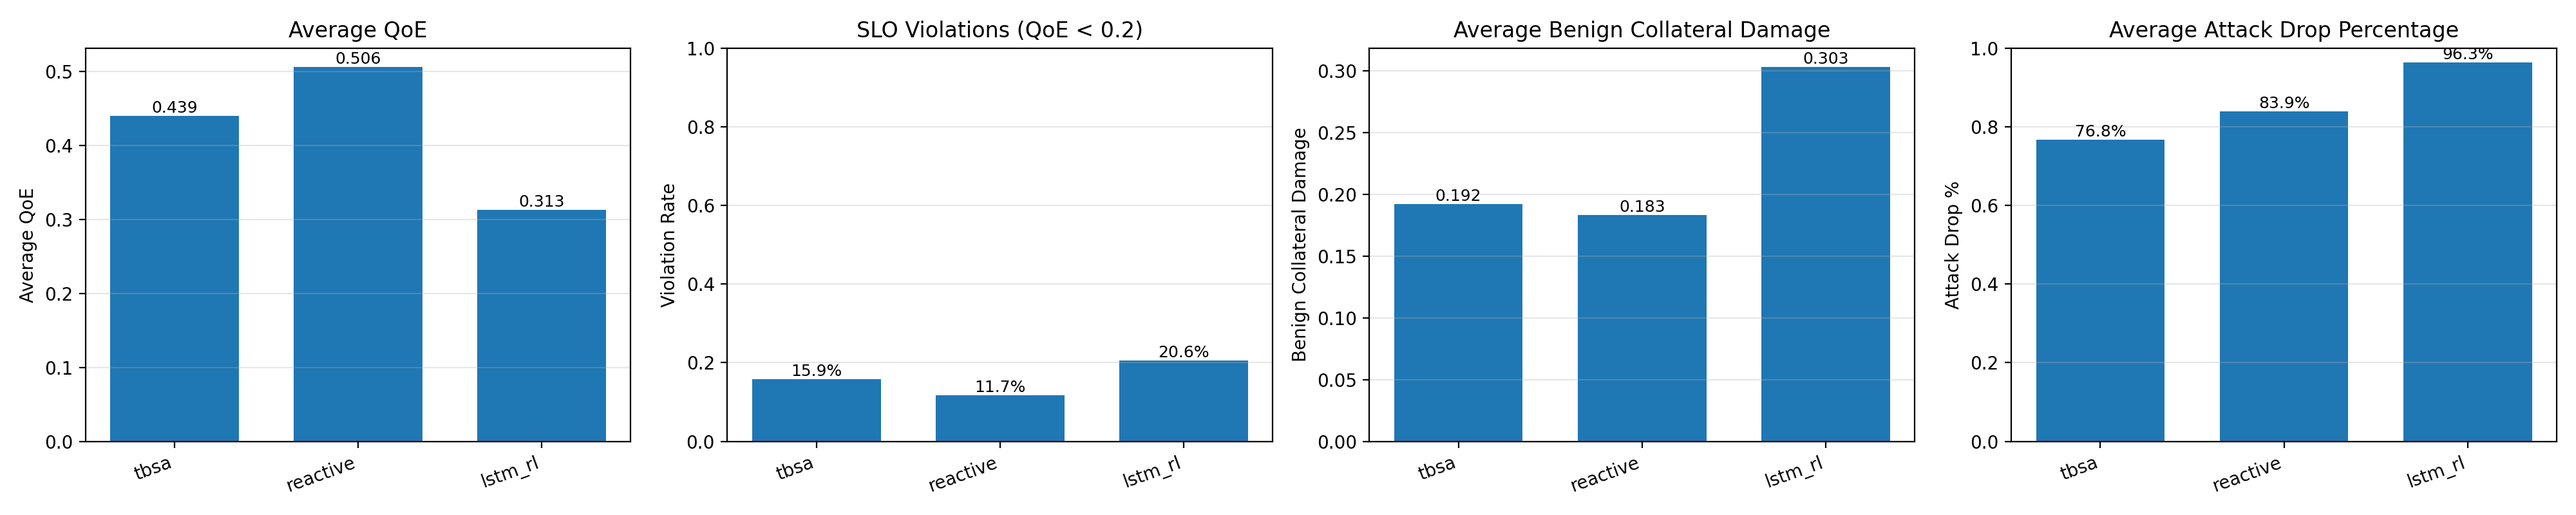
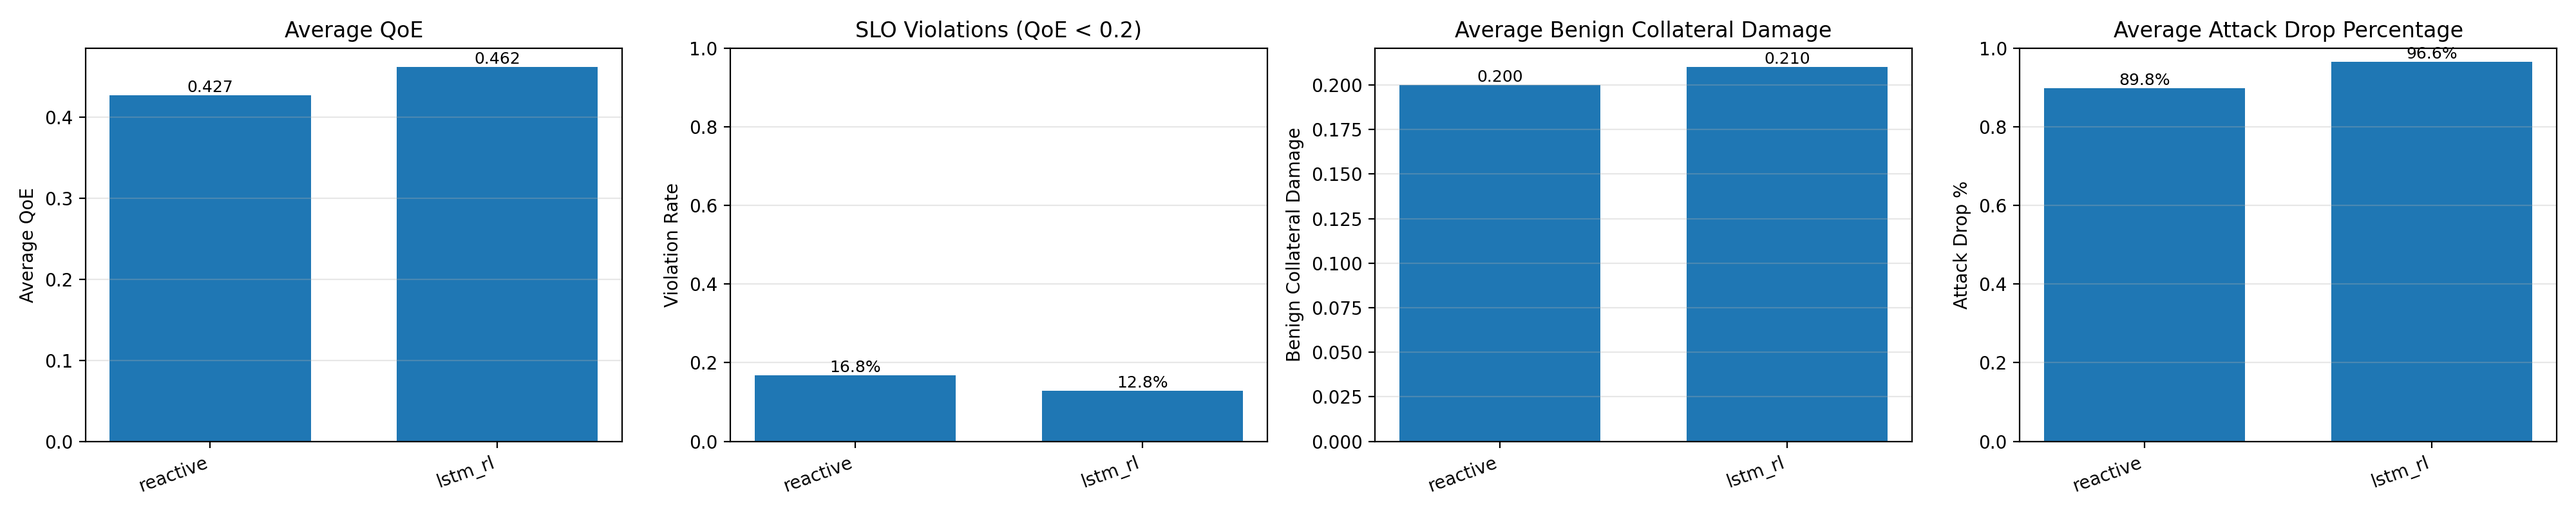
scaling overhead convergence (but so can overlap and incorrect)

diff --git a/simulation/eval_baselines.py b/simulation/eval_baselines.py
@@ -15,7 +15,7 @@ from __future__ import annotations
 import argparse
 import math
 from pathlib import Path
-from typing import Dict, List
+from typing import Dict, List, Optional, Tuple
 
 import numpy as np
 import pandas as pd
@@ -30,7 +30,7 @@ SCALING_K      = 2.0
 SCALING_QUANTA = [0.5, 1.0, 1.5, 2.0]
 
 DEFAULT_METHODS = ["random", "constant_0.5", "constant_1.5", "tbsa", "reactive"]
-DEFAULT_METHODS = ["tbsa", "reactive", "lstm_rl"]
+DEFAULT_METHODS = ["reactive", "lstm_rl"]
 
 
 # ---------------------------------------------------------------------------
@@ -114,17 +114,23 @@ def run_episode(
     reward_beta: float,
     reward_gamma: float,
     reward_q_th: float,
-) -> Dict[str, np.ndarray]:
+    initial_ids_cpu: Optional[np.ndarray] = None,
+) -> Tuple[Dict[str, np.ndarray], np.ndarray]:
     """
     Run one episode with *policy* and return a dict of per-decision arrays
-    (same keys as old_policy.run_episode so the same plotting code works).
+    and the final ids_cpu state for carry-over.
     """
     env.reset(seed)
     policy.reset()
 
     n_edges     = len(env.edge_areas)
     ids_cpu_max = np.array([e.budget.cpu - 0.5 for e in env.edge_areas], dtype=np.float32)
-    ids_cpu     = np.array([e.ids_cpu for e in env.edge_areas], dtype=np.float32)
+    
+    if initial_ids_cpu is not None:
+        ids_cpu = initial_ids_cpu.copy()
+    else:
+        ids_cpu = np.array([e.ids_cpu for e in env.edge_areas], dtype=np.float32)
+    
     ids_cpu     = np.clip(ids_cpu, ids_cpu_min, ids_cpu_max)
 
     scaling_time_steps: List[int] = list(
@@ -132,7 +138,7 @@ def run_episode(
     )
     scaling_pending  = 0.0
     overhead_rate    = 0.0
-    ids_cpu_settled  = ids_cpu.copy()   # last completed IDS CPU (unit-step model)
+    ids_cpu_settled  = ids_cpu.copy()   # matches TorchRLEnvWrapper._reset logic
     rng = np.random.default_rng(seed)
 
     decisions = math.ceil(int(cfg["run"]["t_max"]) / decision_interval)
@@ -146,9 +152,11 @@ def run_episode(
     attack_drop_rate_ts   = []
     ema_mom_ts            = []
     cpu_to_ids_ratio_ts   = []
+    qoe_vio_rate_ts       = []
     reward_lambda_res_ts  = []
     reward_bcd_ts         = []
     reward_qoe_penalty_ts = []
+    reward_ts             = []
 
     for _ in range(decisions):
         if env.t >= env.t_max:
@@ -223,14 +231,18 @@ def run_episode(
         def _col_mean(col):
             return float(df[col].mean()) if col in df.columns else 0.0
 
-        qoe_mean = (
-            float(np.mean(df["qoe_mean"].values)) if "qoe_mean" in df.columns else 0.0
-        )
+        qoe_vals = df["qoe_mean"].values.astype(np.float32) if "qoe_mean" in df.columns else np.array([])
+        qoe_mean = float(np.mean(qoe_vals)) if qoe_vals.size > 0 else 0.0
+        
+        # PER-STEP VIOLATION RATE (Matches TorchRLEnvWrapper)
+        v_rate = float(np.mean(qoe_vals < reward_q_th)) if qoe_vals.size > 0 else 0.0
+        
         bcd_mean = (
             float(np.mean(df["benign_col_dmg"].values)) if "benign_col_dmg" in df.columns else 0.0
         )
 
         qoe_ts.append(qoe_mean)
+        qoe_vio_rate_ts.append(v_rate)
         benign_col_dmg_ts.append(bcd_mean)
         cpu_util_ts.append(cpu_util)
         local_num_req_ts.append(_col_mean("local_num_req"))
@@ -253,16 +265,27 @@ def run_episode(
             sf       = np.maximum(0.0, reward_q_th - qoes) / max(reward_q_th, 1e-6)
             bcd_vals = df["benign_col_dmg"].values.astype(np.float32) if "benign_col_dmg" in df.columns else np.zeros(len(atk_in))
 
-            reward_lambda_res_ts.append(float(reward_beta  * np.mean(lres)))
-            reward_bcd_ts.append(       float(reward_gamma * np.mean(bcd_vals)))
-            reward_qoe_penalty_ts.append(float(reward_alpha * np.mean(sf)))
+            # Only average lres over ticks where attacks are actually present.
+            # Including zero-attack ticks (lres=0) inflates the apparent drop
+            # rate by counting quiet periods as "100% defended".
+            active = atk_in > 1e-6
+            r_lres = float(np.mean(lres[active])) if np.any(active) else 0.0
+            r_bcd  = float(np.mean(bcd_vals))
+            r_sf   = float(np.mean(sf))
+            reward_lambda_res_ts.append(r_lres)
+            reward_bcd_ts.append(r_bcd)
+            reward_qoe_penalty_ts.append(r_sf)
+            # Weighted reward scalar — same formula as TorchRLEnvWrapper._build_reward
+            reward_ts.append(-(reward_alpha * r_sf + reward_beta * r_lres + reward_gamma * r_bcd))
         else:
             reward_lambda_res_ts.append(0.0)
             reward_bcd_ts.append(0.0)
             reward_qoe_penalty_ts.append(0.0)
+            reward_ts.append(0.0)
 
-    return {
+    res = {
         "qoe":                  np.asarray(qoe_ts,                dtype=np.float32),
+        "qoe_vio_rate":         np.asarray(qoe_vio_rate_ts,       dtype=np.float32),
         "benign_col_dmg":       np.asarray(benign_col_dmg_ts,     dtype=np.float32),
         "cpu_util":             np.asarray(cpu_util_ts,           dtype=np.float32),
         "local_num_req":        np.asarray(local_num_req_ts,      dtype=np.float32),
@@ -274,7 +297,9 @@ def run_episode(
         "reward_lambda_res":    np.asarray(reward_lambda_res_ts,  dtype=np.float32),
         "reward_benign_col_dmg": np.asarray(reward_bcd_ts,        dtype=np.float32),
         "reward_qoe_penalty":   np.asarray(reward_qoe_penalty_ts, dtype=np.float32),
+        "reward":               np.asarray(reward_ts,             dtype=np.float32),
     }
+    return res, ids_cpu.copy()
 
 
 # ---------------------------------------------------------------------------
@@ -294,7 +319,8 @@ def main():
                     help="Methods to evaluate. Defaults: random constant_0.5 constant_4.0 reactive")
     ap.add_argument("--tbsa_table",        default="tbsa_table.npz",
                     help="TBSA lookup-table path (needed when 'tbsa' is in --methods)")
-    ap.add_argument("--ckpt",              default="checkpoints/tdsc_so/ckpt_iter_000300.pt",
+    ap.add_argument("--ckpt",              default="checkpoints/tdsc_so_rew_32/ckpt_iter_000300.pt",
+    # ap.add_argument("--ckpt",              default="checkpoints/tdsc/ckpt_iter_000500.pt",
     # ap.add_argument("--ckpt",              default="checkpoints/tdsc_so/ckpt_best.pt",
                     help="Checkpoint path (needed when 'lstm_rl' is in --methods)")
     ap.add_argument("--device",            default="cpu")
@@ -303,7 +329,10 @@ def main():
     with open(args.cfg) as f:
         cfg = yaml.safe_load(f)
 
-    base_seed         = int(cfg["run"]["seed"])
+    # Sync global random state with training for AttackTypeLibrary (identical to train_lstm.py)
+    base_seed = int(cfg["run"]["seed"])
+    np.random.seed(base_seed)
+
     decision_interval = args.decision_interval or int(cfg["globals"]["decision_interval"])
 
     outdir = Path(args.outdir)
@@ -347,11 +376,13 @@ def main():
 
     # Accumulate per-decision results across episodes
     results: Dict[str, Dict[str, np.ndarray]] = {m: {} for m in methods}
+    # Track carry-over state per method (matches training SyncDataCollector behavior)
+    last_ids_cpu: Dict[str, Optional[np.ndarray]] = {m: None for m in methods}
 
     for ep in tqdm(range(args.episodes), desc="episodes"):
-        ep_seed = base_seed + ep * 1000
+        ep_seed = 1000 + ep * 1000
         for mname in methods:
-            ep_result = run_episode(
+            ep_result, final_ids = run_episode(
                 env=env,
                 cfg=cfg,
                 policy=policies[mname],
@@ -364,7 +395,9 @@ def main():
                 reward_beta=reward_beta,
                 reward_gamma=reward_gamma,
                 reward_q_th=reward_q_th,
+                initial_ids_cpu=last_ids_cpu[mname],
             )
+            last_ids_cpu[mname] = final_ids
             for k, v in ep_result.items():
                 results[mname][k] = np.concatenate(
                     [results[mname].get(k, np.array([], dtype=np.float32)), v]
@@ -377,6 +410,22 @@ def main():
     plot_qoe_vio_bars( results, summary_path, qoe_slo_min=reward_q_th, beta=3)
 
     print(f"Plots saved to {outdir}/")
+
+    # Summary table — comparable to wandb training metrics
+    header = f"{'Method':<20} {'qoe_vio_rate':>12} {'reward/mean':>12} {'qoe_penalty':>12} {'atk_drop_pct':>12} {'lambda_res':>12}"
+    print("\n" + header)
+    print("-" * len(header))
+    for mname in methods:
+        r = results[mname]
+        lres = float(np.mean(r['reward_lambda_res']))
+        print(
+            f"{mname:<20} "
+            f"{float(np.mean(r['qoe_vio_rate'])):>12.1%} "
+            f"{float(np.mean(r['reward'])):>12.4f} "
+            f"{float(np.mean(r['reward_qoe_penalty'])):>12.4f} "
+            f"{1.0 - lres:>12.1%} "   # attack drop % — matches summary.png bar
+            f"{lres:>12.4f}"           # raw pass-through fraction (during attacks)
+        )
 
 
 if __name__ == "__main__":

diff --git a/simulation/old_policy.py b/simulation/old_policy.py
@@ -350,6 +350,7 @@ def run_episode(
     overhead_rate: float = 0.0
 
     qoe_ts = []
+    qoe_vio_rate_ts = []
     benign_col_dmg_ts = []
     cpu_util_ts = []
     local_num_req_ts = []
@@ -443,7 +444,12 @@ def run_episode(
         block = env.history[-decision_interval * n_edges :]
         df = pd.DataFrame([m.__dict__ for m in block])
 
+        qoes_step = df["qoe_mean"].values.astype(np.float32)
+        v_rate = float(np.mean(qoes_step < 0.2)) # Hardcoded 0.2 for legacy script
+   
+
         qoe_ts.append(qoe)
+        qoe_vio_rate_ts.append(v_rate)
         benign_col_dmg_ts.append(benign_col_dmg)
         cpu_util_ts.append(cpu_util)
         local_num_req_ts.append(float(df["local_num_req"].mean()) if "local_num_req" in df.columns else 0.0)
@@ -464,16 +470,16 @@ def run_episode(
             _qoes = df["qoe_mean"].values.astype(np.float32)
             _shortfall = np.maximum(0.0, _q_th - _qoes) / max(_q_th, 1e-6)
             _bcd = df["benign_col_dmg"].values.astype(np.float32)
-            reward_lambda_res_ts.append(float(_beta * np.mean(_lres)))
-            reward_benign_col_dmg_ts.append(float(_gamma * np.mean(_bcd)))
-            reward_qoe_penalty_ts.append(float(_alpha * np.mean(_shortfall)))
+            reward_lambda_res_ts.append(float(np.mean(_lres)))
+            reward_benign_col_dmg_ts.append(float(np.mean(_bcd)))
+            reward_qoe_penalty_ts.append(float(np.mean(_shortfall)))
         else:
             reward_lambda_res_ts.append(0.0)
             reward_benign_col_dmg_ts.append(0.0)
             reward_qoe_penalty_ts.append(0.0)
-
     return {
         "qoe": np.asarray(qoe_ts, dtype=np.float32),
+        "qoe_vio_rate": np.asarray(qoe_vio_rate_ts, dtype=np.float32),
         "benign_col_dmg": np.asarray(benign_col_dmg_ts, dtype=np.float32),
         "cpu_util": np.asarray(cpu_util_ts, dtype=np.float32),
         "local_num_req": np.asarray(local_num_req_ts, dtype=np.float32),
@@ -496,14 +502,13 @@ def plot_ts_continuous(results: Dict[str, Dict[str, np.ndarray]], outpath: Path,
         ("benign_col_dmg", "Benign Collateral Damage"),
         ("local_num_req", "Local #Req"),
         ("attack_in_rate", "Attack in rate"),
-        ("attack_in_rate_std", "Attack in rate std"),
         ("attack_drop_rate", "Attack drop rate"),
         ("cpu_util", "CPU Utilization"),
         ("cpu_to_ids_ratio", "CPU→IDS Ratio"),
         ("ema_mom", "EMA Momentum"),
-        ("reward_lambda_res", "Reward: λ_res (attack residual)"),
-        ("reward_benign_col_dmg", "Reward: benign collateral dmg"),
-        ("reward_qoe_penalty", "Reward: QoE shortfall penalty"),
+        ("reward_lambda_res", "Raw Factor: λ_res (leakage)"),
+        ("reward_benign_col_dmg", "Raw Factor: Benign Collateral Dmg"),
+        ("reward_qoe_penalty", "Raw Factor: QoE Shortfall"),
     ]
 
     for ax, (k, ylabel) in zip(axes, panels):
@@ -560,7 +565,11 @@ def plot_qoe_vio_bars(results: Dict[str, Dict[str, np.ndarray]],
         if q.size == 0:
             continue
 
-        vr = float(np.mean((q < qoe_slo_min).astype(np.float32)))
+        qoe_vio_rate = series.get("qoe_vio_rate", None)
+        if qoe_vio_rate is not None and qoe_vio_rate.size > 0:
+            vr = float(np.mean(qoe_vio_rate))
+        else:
+            vr = float(np.mean((q < qoe_slo_min).astype(np.float32)))
         v = float(np.exp(-beta * vr))
 
         methods.append(method)
@@ -574,22 +583,16 @@ def plot_qoe_vio_bars(results: Dict[str, Dict[str, np.ndarray]],
             b = b[np.isfinite(b)]
             avg_benign_col_dmg.append(float(np.mean(b)) if b.size > 0 else np.nan)
 
-        if attack_drop_rate_ts is None or attack_in_rate_ts is None:
-            avg_attack_drop_pct.append(np.nan)
+        # 1 - lambda_res: matches the atk_drop_pct column in the eval summary
+        # table. lambda_res is averaged only over active attack ticks so this
+        # is the true per-tick drop fraction during attacks.
+        lres_ts = series.get("reward_lambda_res", None)
+        if lres_ts is not None and np.asarray(lres_ts).size > 0:
+            lres = np.asarray(lres_ts, dtype=np.float32).reshape(-1)
+            lres = lres[np.isfinite(lres)]
+            avg_attack_drop_pct.append(float(1.0 - np.mean(lres)) if lres.size > 0 else np.nan)
         else:
-            drop = np.asarray(attack_drop_rate_ts, dtype=np.float32).reshape(-1)
-            atk_in = np.asarray(attack_in_rate_ts, dtype=np.float32).reshape(-1)
-
-            m = min(len(drop), len(atk_in))
-            drop = drop[:m]
-            atk_in = atk_in[:m]
-
-            valid = np.isfinite(drop) & np.isfinite(atk_in) & (atk_in > 0)
-            if np.any(valid):
-                drop_pct = drop[valid] / atk_in[valid]
-                avg_attack_drop_pct.append(float(np.mean(drop_pct)))
-            else:
-                avg_attack_drop_pct.append(np.nan)
+            avg_attack_drop_pct.append(np.nan)
 
     x = np.arange(len(methods), dtype=np.int32)
     width = 0.7

diff --git a/simulation/method_policy.py b/simulation/method_policy.py
@@ -245,15 +245,40 @@ class LSTMRLPolicy(BaselinePolicy):
         self.net.eval()
 
         # ---- observation normalisation -----------------------------------
+        # TransformedEnv(Compose(InitTracker, lstm_primer, ObservationNorm))
+        # saves state as: transforms.2.loc / transforms.2.scale / transforms.2.standard_normal
+        _OBSNORM_LOC_KEY   = "transforms.2.loc"
+        _OBSNORM_SCALE_KEY = "transforms.2.scale"
+        _OBSNORM_STD_KEY   = "transforms.2.standard_normal"
+
         obsnorm = state.get("obsnorm", None)
         self.obs_loc   = None
         self.obs_scale = None
-        if obsnorm is not None:
+        if obsnorm is None:
+            print("[LSTMRLPolicy] WARNING: checkpoint has no 'obsnorm' — running WITHOUT normalisation")
+        elif _OBSNORM_LOC_KEY in obsnorm and _OBSNORM_SCALE_KEY in obsnorm:
+            _sn = obsnorm.get(_OBSNORM_STD_KEY, True)
+            std_normal = bool(_sn.item() if hasattr(_sn, "item") else _sn)
+            if not std_normal:
+                raise ValueError(
+                    "LSTMRLPolicy only supports standard_normal=True ObservationNorm; "
+                    "checkpoint was saved with standard_normal=False"
+                )
+            self.obs_loc   = obsnorm[_OBSNORM_LOC_KEY].detach().to(self.device).reshape(-1)
+            self.obs_scale = obsnorm[_OBSNORM_SCALE_KEY].detach().to(self.device).reshape(-1)
+            print(f"[LSTMRLPolicy] ObsNorm loaded: loc={self.obs_loc.tolist()}, scale={self.obs_scale.tolist()}")
+        else:
+            # Fallback: search by suffix (warns so silent failure is impossible)
             loc_key   = next((k for k in obsnorm if k.endswith("loc")),   None)
             scale_key = next((k for k in obsnorm if k.endswith("scale")), None)
             if loc_key and scale_key:
+                print(f"[LSTMRLPolicy] WARNING: expected keys {_OBSNORM_LOC_KEY!r}/{_OBSNORM_SCALE_KEY!r} "
+                      f"not found; falling back to suffix match: {loc_key!r}/{scale_key!r}")
                 self.obs_loc   = obsnorm[loc_key].detach().to(self.device).reshape(-1)
                 self.obs_scale = obsnorm[scale_key].detach().to(self.device).reshape(-1)
+            else:
+                print(f"[LSTMRLPolicy] WARNING: no loc/scale keys found in obsnorm "
+                      f"(keys: {list(obsnorm.keys())}) — running WITHOUT normalisation")
 
         self._h: Optional[object] = None
         self._c: Optional[object] = None

diff --git a/simulation/environment.py b/simulation/environment.py
@@ -280,6 +280,7 @@ class Environment:
                 viol_rate = float(viol.mean()) if len(viol) > 0 else 0.0
                 V_edge = np.exp(-edge.slo_beta * viol_rate)
 
+                # qoe_slo.append(float(qoes.mean()) * 1)
                 qoe_slo.append(float(qoes.mean()) * V_edge)
 
             self.final_qoe = np.mean(qoe_slo) if len(qoe_slo) > 0 else 0.0        

diff --git a/simulation/edgearea.py b/simulation/edgearea.py
@@ -258,7 +258,7 @@ class EdgeArea:
             idx = int(self.rng.integers(0, len(self._all_attackers)))
             self.attackers = [self._all_attackers[idx]]
         # 4) Reset IDS
-        self.ids_cpu = 1.0
+        self.ids_cpu = 4.0
         
     def get_state(self) -> dict:
         return {
